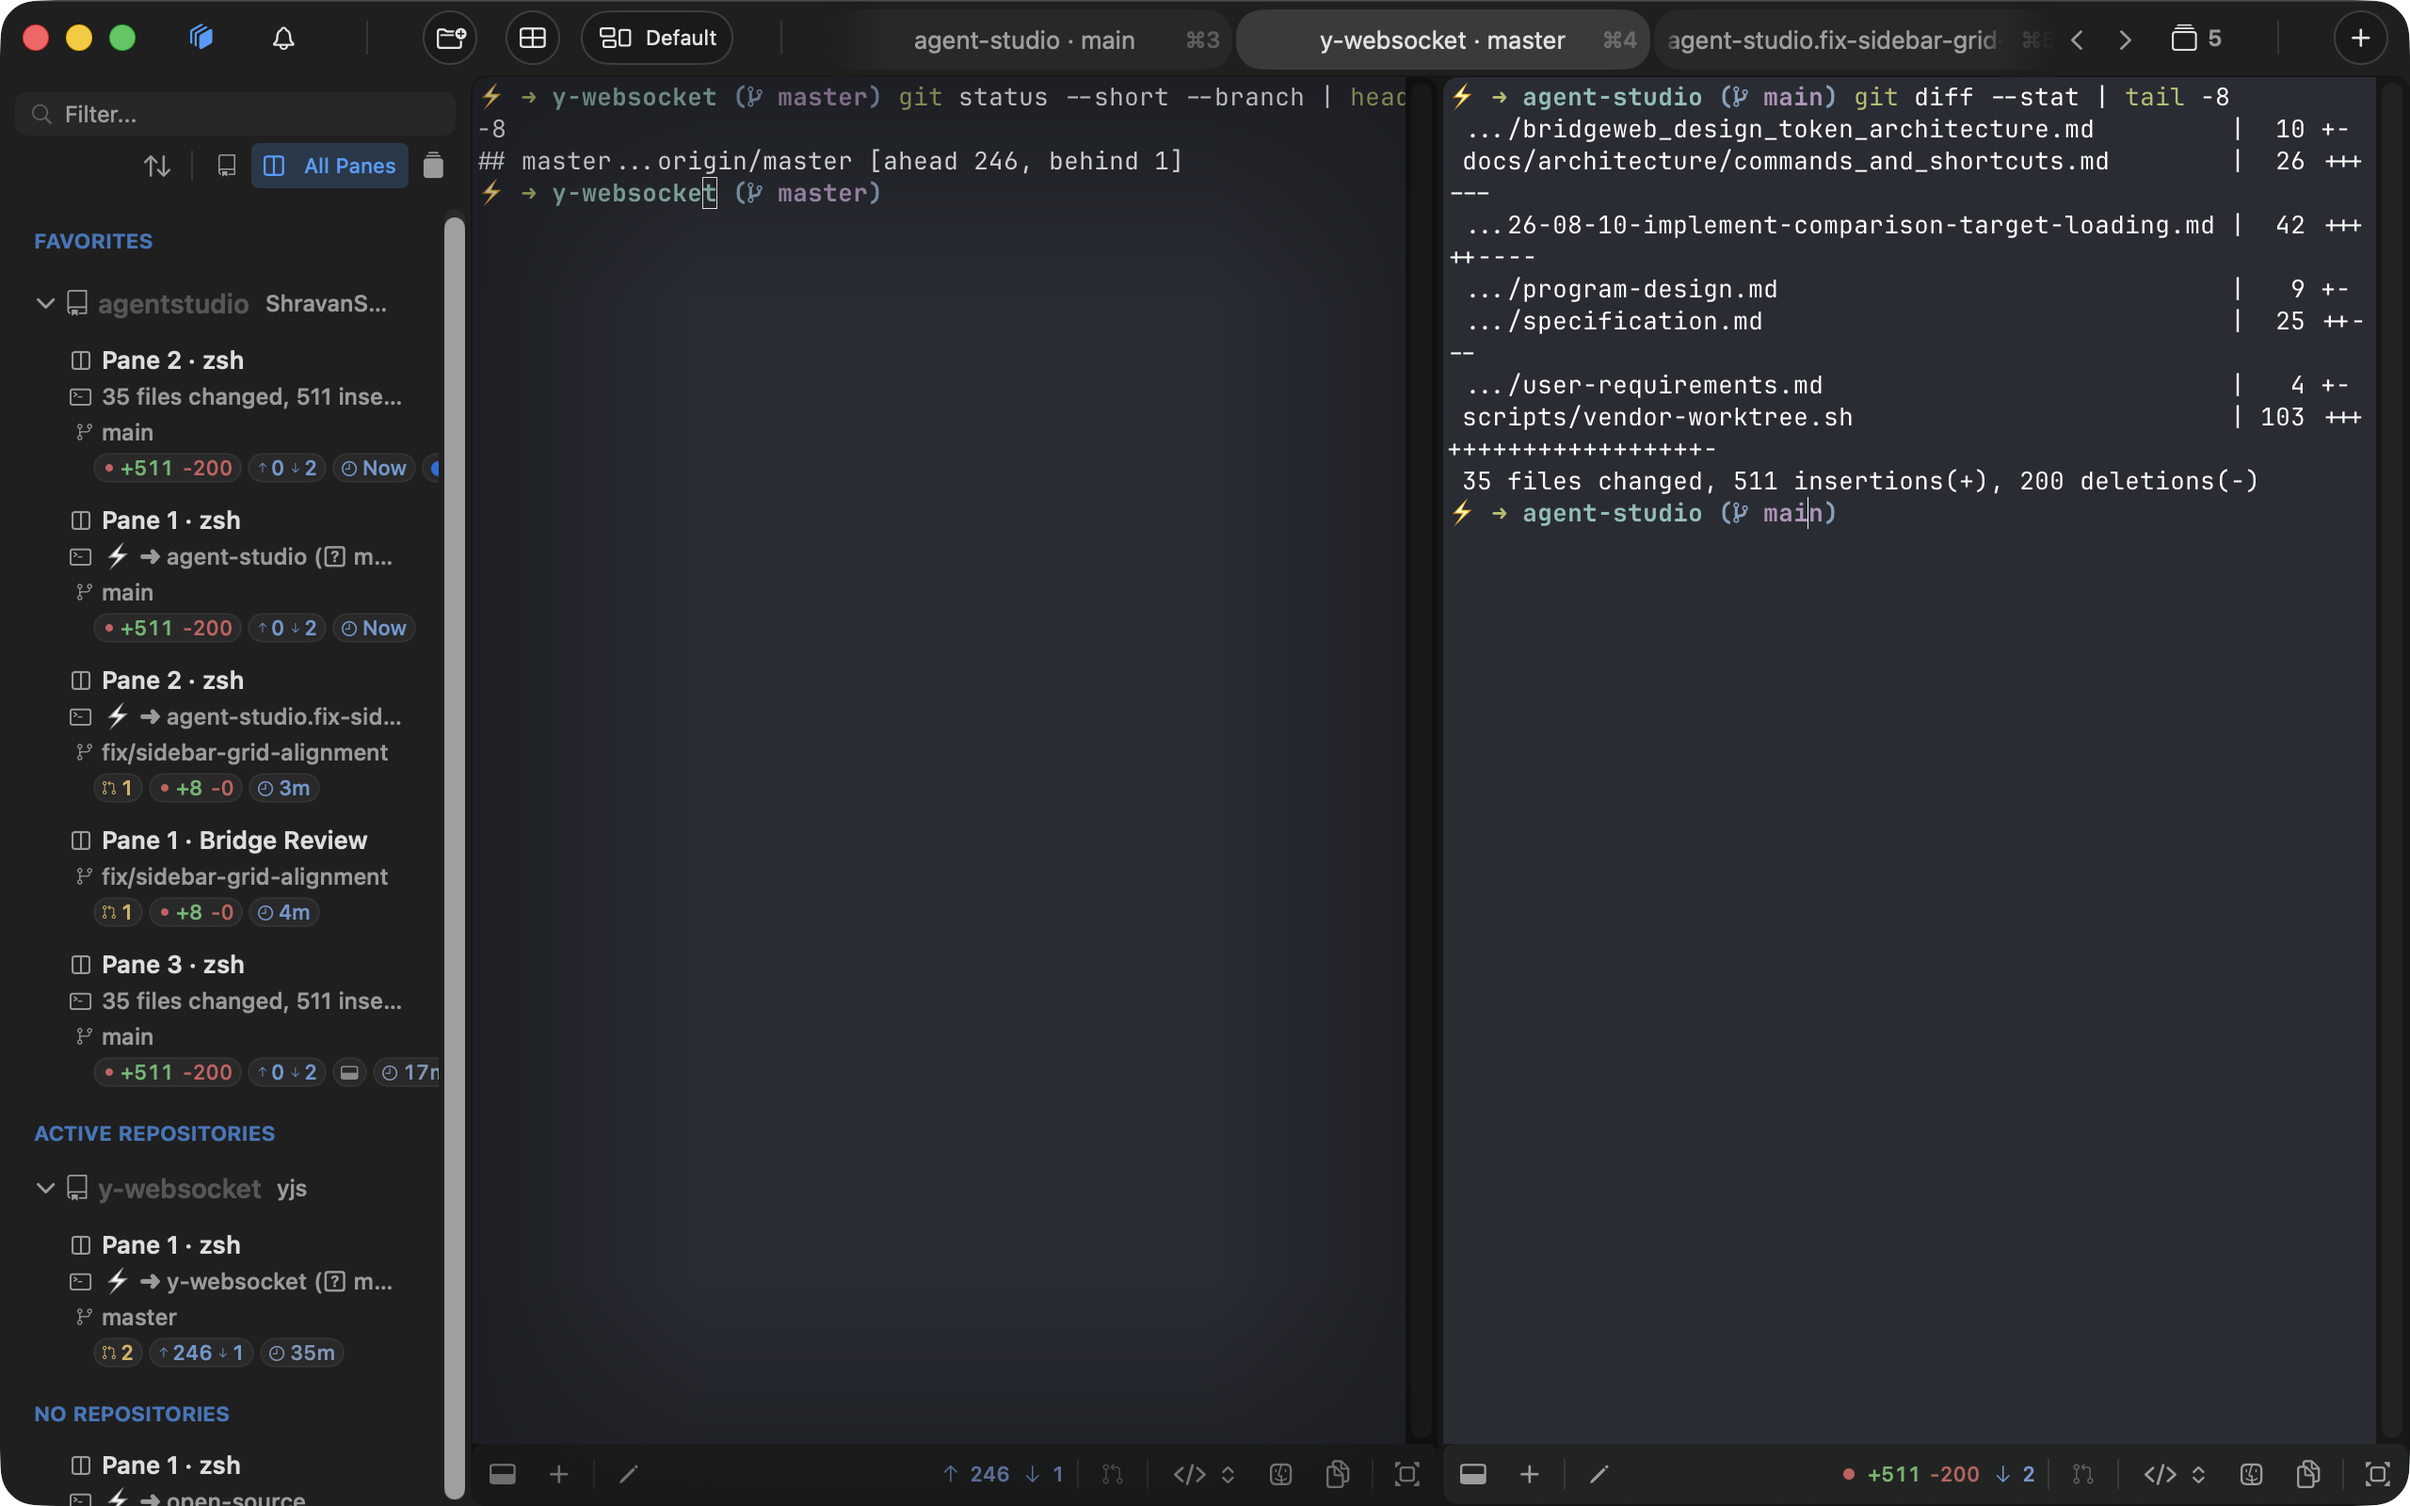
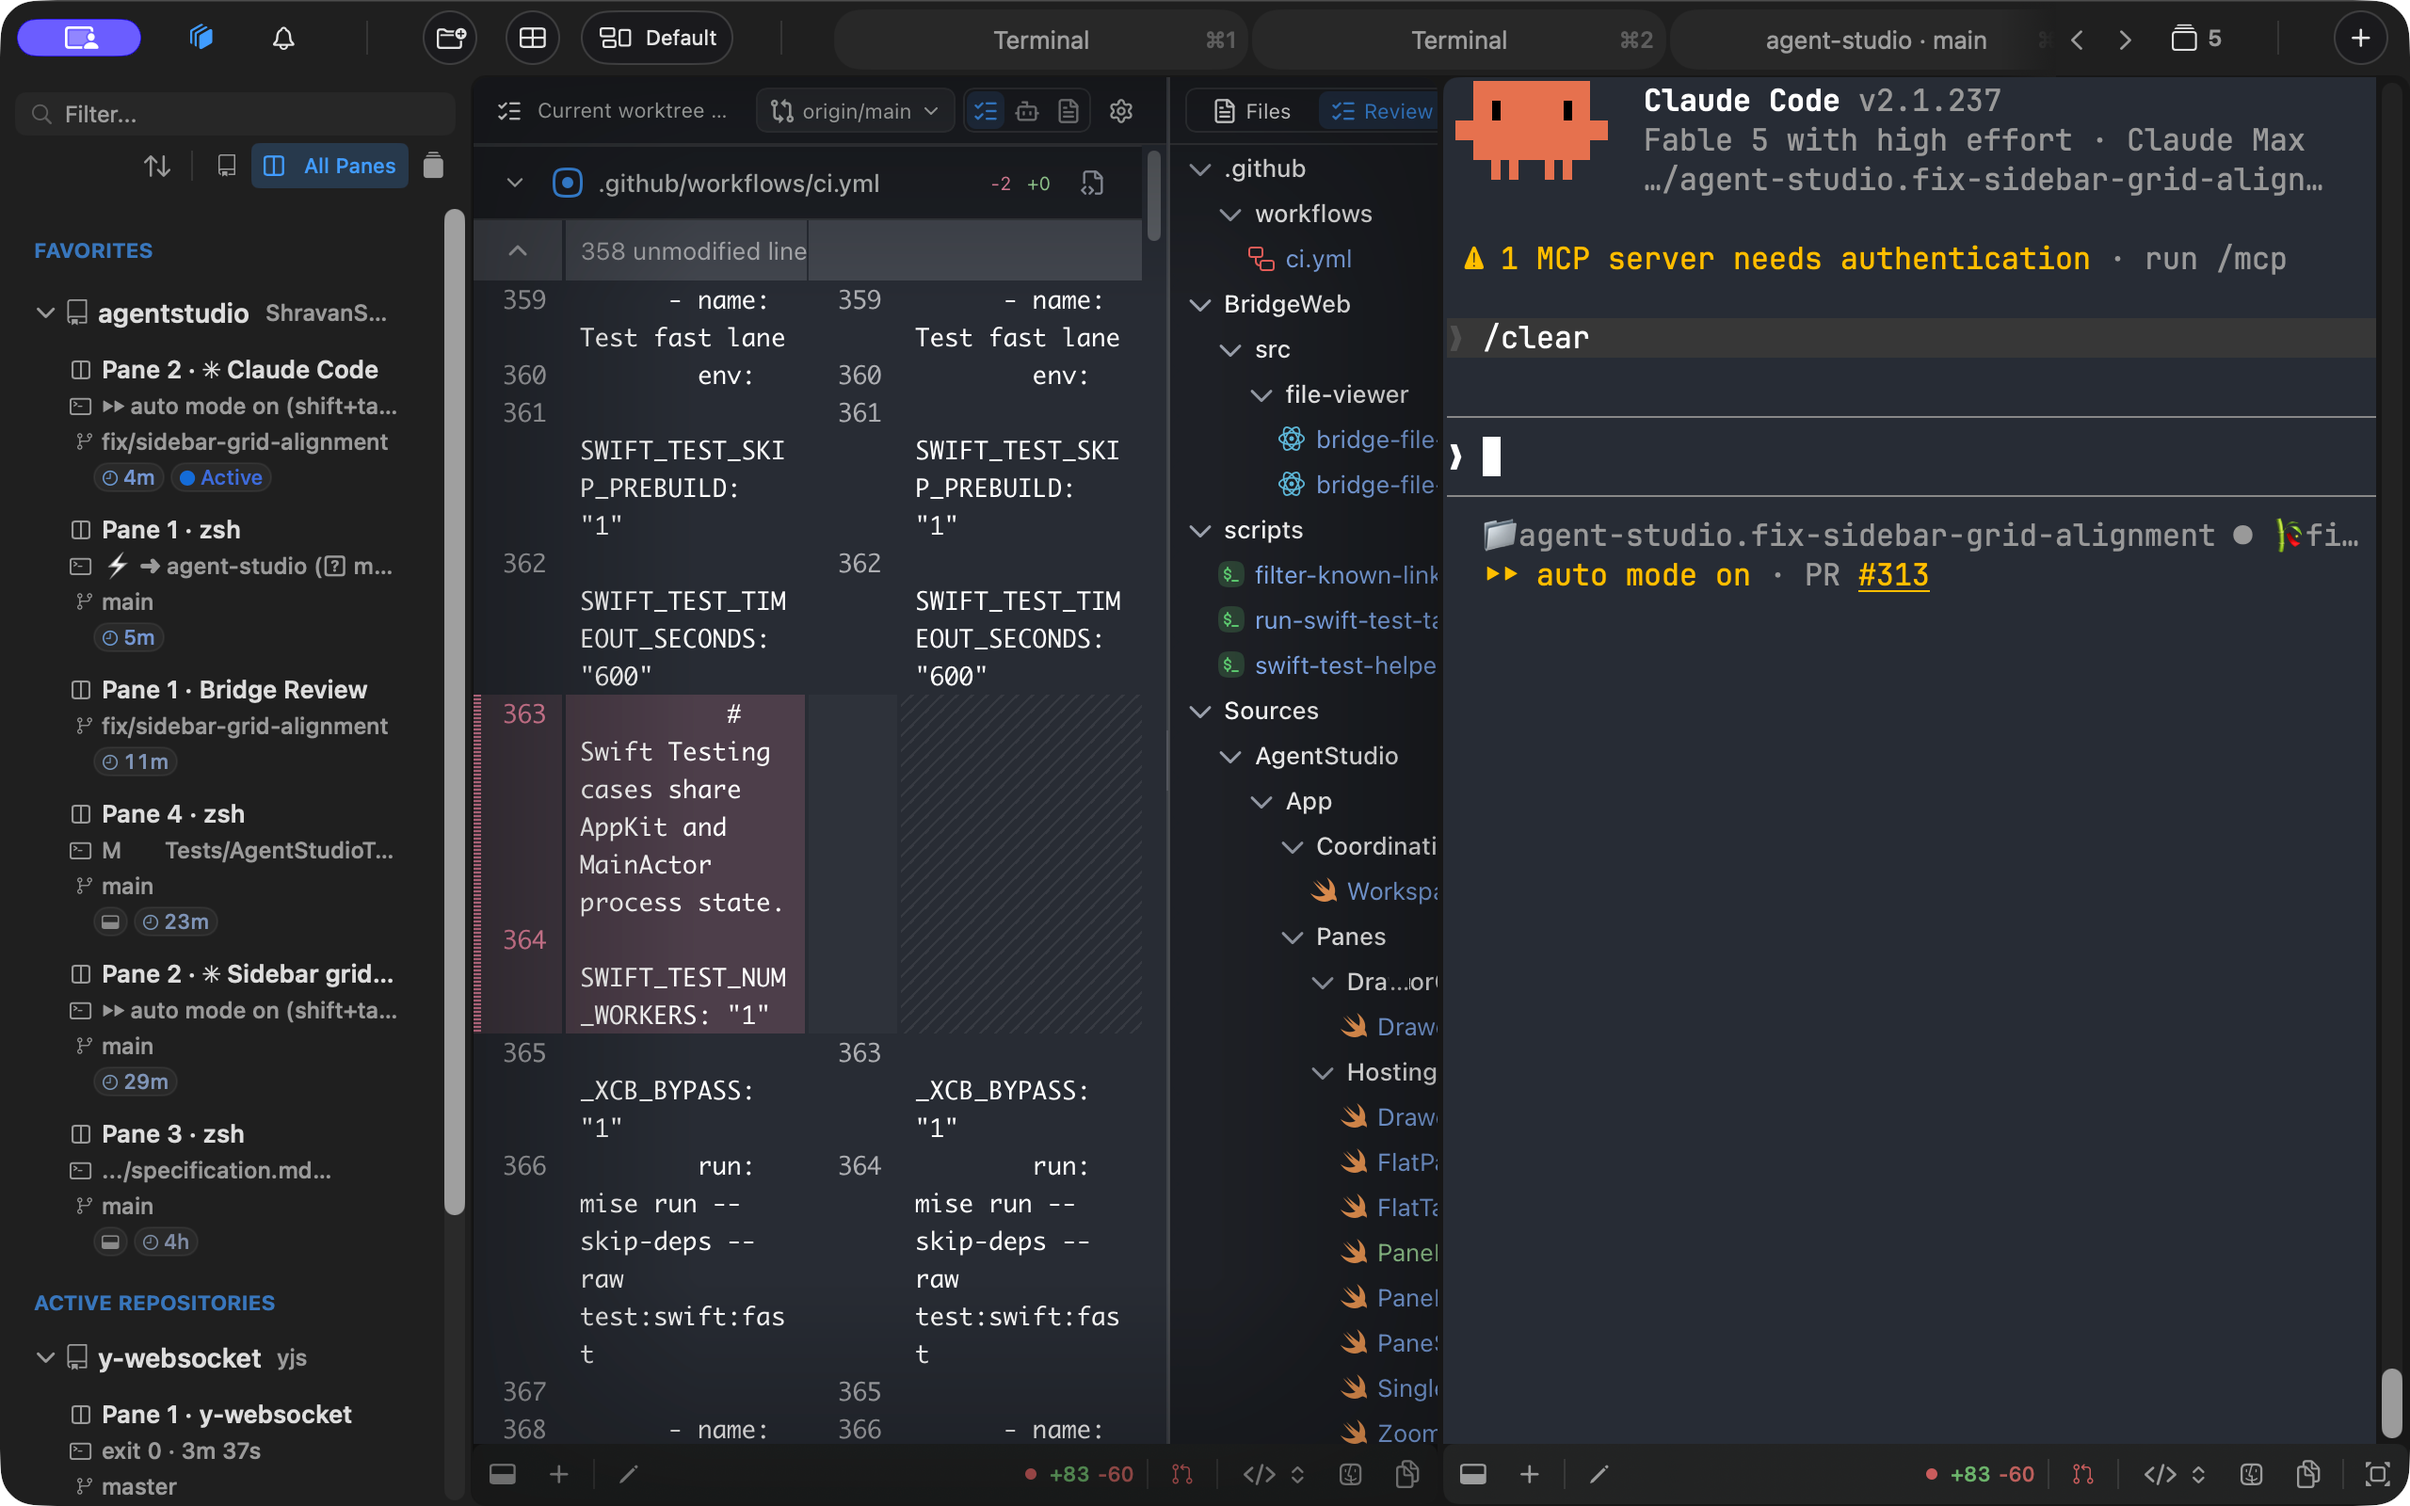
feat(web): replace product capture suite

diff --git a/web/src/content/website-capture-manifest.ts b/web/src/content/website-capture-manifest.ts
@@ -86,15 +86,15 @@ export const websiteCaptureSuite = {
       id: "pane-drawer",
       assetPath: "../assets/captures/pane-drawer.png",
       alternativeText:
-        "Agent Studio with a Git diff summary in a drawer attached to the right terminal pane.",
+        "Agent Studio with one populated Git file-status drawer attached to the active agent task, while Codex and Claude Code remain visible behind it.",
       processGeneration: "A",
[6 lines of base64/hex data omitted]
       focusRegion: null,
       focusRadiusPixels: null,
       focusRail: false,
-      settledAtSeconds: 1.72,
+      settledAtSeconds: 1,
     },
     {
       id: "quick-find",
@@ -114,43 +114,43 @@ export const websiteCaptureSuite = {
       id: "review",
       assetPath: "../assets/captures/review.png",
       alternativeText:
-        "Agent Studio with a read-only Swift diff and Changed Files tree beside the matching worktree terminal.",
+        "Agent Studio Review showing a CI workflow diff and Changed Files tree beside Claude Code in the matching worktree for pull request 313.",
       processGeneration: "A",
[6 lines of base64/hex data omitted]
       focusRegion: null,
       focusRadiusPixels: null,
       focusRail: false,
-      settledAtSeconds: 3.72,
+      settledAtSeconds: 1,
     },
     {
       id: "persistent-before",
       assetPath: "../assets/captures/persistent-before.png",
       alternativeText:
-        "Agent Studio before closing with five tabs, two visible terminal panes, drawer and Review entries, and the All Panes sidebar.",
+        "Agent Studio before closing with five tabs, All Panes, a CI workflow diff in Review, and Claude Code in the matching worktree for pull request 313.",
       processGeneration: "A",
[6 lines of base64/hex data omitted]
       focusRegion: null,
       focusRadiusPixels: null,
       focusRail: false,
-      settledAtSeconds: 4.72,
+      settledAtSeconds: 1,
     },
     {
       id: "persistent-restored",
       assetPath: "../assets/captures/persistent-restored.png",
       alternativeText:
-        "Agent Studio after reopening with five restored tabs, the same terminal panes, drawer and Review entries, terminal output, and sidebar grouping.",
+        "Agent Studio after reopening with the same five tabs, All Panes grouping, CI workflow diff, Claude Code worktree, pull request, and terminal session.",
       processGeneration: "B",
[6 lines of base64/hex data omitted]
       focusRegion: null,
       focusRadiusPixels: null,
       focusRail: false,
-      settledAtSeconds: 5.72,
+      settledAtSeconds: 1,
     },
   ],
 } as const satisfies WebsiteCaptureSuite;

diff --git a/web/src/marketing-copy.ts b/web/src/marketing-copy.ts
@@ -28,7 +28,8 @@ export const marketingCopy = {
       label: "Pane drawer",
       description:
         "Open a build log, git status, documentation, or a browser beside the agent that prompted it.",
-      imageDescription: "A Git diff summary in a drawer attached to the right terminal pane.",
+      imageDescription:
+        "One populated Git file-status drawer attached to the active agent task, with Codex and Claude Code visible behind it.",
     },
     quickFind: {
       label: "Quick Find",
@@ -41,7 +42,7 @@ export const marketingCopy = {
       description:
         "Agent Studio presents every changed file as one continuous, read-only diff with file-tree navigation and syntax highlighting.",
       imageDescription:
-        "A read-only Swift diff and Changed Files tree beside the matching worktree terminal.",
+        "A CI workflow diff and Changed Files tree beside Claude Code in the matching worktree for pull request 313.",
     },
     persistence: {
       label: "Persistent terminal sessions",
@@ -50,9 +51,9 @@ export const marketingCopy = {
       beforeLabel: "Before close",
       restoredLabel: "Restored",
       beforeImageDescription:
-        "Five tabs, two visible terminal panes, drawer and Review entries, and the All Panes sidebar before closing.",
+        "Five tabs, All Panes, a CI workflow diff in Review, and Claude Code in the matching worktree before closing.",
       restoredImageDescription:
-        "Five restored tabs, the same terminal panes, drawer and Review entries, terminal output, and sidebar grouping after reopening.",
+        "The same five tabs, All Panes grouping, CI workflow diff, Claude Code worktree, pull request, and terminal session after reopening.",
     },
   },
   installation: {

diff --git a/web/src/styles/global.css b/web/src/styles/global.css
@@ -533,6 +533,11 @@ a:focus-visible {
     overflow-x: auto;
     border-right: 0;
     border-bottom: 1px solid var(--line-strong);
+    scrollbar-width: none;
+  }
+
+  .product-plate__selectors::-webkit-scrollbar {
+    display: none;
   }
 
   .product-plate__selector {

diff --git a/docs/wip/2026-08-18-marketing-site-visual-copy-remediation.md b/docs/wip/2026-08-18-marketing-site-visual-copy-remediation.md
@@ -53,24 +53,24 @@ historical execution, not current acceptance. The current files show generic
 shells, large empty regions, no recognizable coding-agent sessions, weak or
 contaminated corner treatment, and an invalid half-size persistence layout.
 
-- [ ] Apply the source-pixel, crop, fit, readability, campaign-meaning, and
+- [x] Apply the source-pixel, crop, fit, readability, campaign-meaning, and
       two-plane approval gates from the mandatory verification SOP.
-- [ ] Produce one clean Parallel work calibration frame with real Claude Code
+- [x] Produce one clean Parallel work calibration frame with real Claude Code
       and Codex sessions before recapturing the other states.
 - [ ] Resolve the exact meaning of `Agy`; do not substitute `aider` silently.
-- [ ] Replace Pane drawer with a useful populated drawer attached to one named
+- [x] Replace Pane drawer with a useful populated drawer attached to one named
       agent task.
-- [ ] Replace Quick Find with a native, populated sheet over the same credible
+- [x] Replace Quick Find with a native, populated sheet over the same credible
       named-agent workspace.
-- [ ] Replace Review with a named agent beside a readable changed-files tree
+- [x] Replace Review with a named agent beside a readable changed-files tree
       and populated diff.
-- [ ] Replace both persistence sources from one matched named-agent restart
+- [x] Replace both persistence sources from one matched named-agent restart
       sequence.
-- [ ] Replace the persistence two-column layout with one full-scale frame at a
+- [x] Replace the persistence two-column layout with one full-scale frame at a
       time and an accessible Before/Restored control.
 - [ ] Inspect all source corners at 100 percent and all rendered states in local
       development, local production, and the exact Cloudflare deployment.
-- [ ] Create current desktop, phone, source, and magnified-corner contact sheets.
+- [x] Create current desktop, phone, source, and magnified-corner contact sheets.
 - [ ] Keep release status `NOT VERIFIED` until every source and rendered state
       passes.
 
@@ -89,18 +89,29 @@ Current recovery evidence:
   real `$ agent` pane scope over the same Codex and Claude Code workspace. The
   full-window region capture preserves the native sheet and background pixels,
   uses the matching window alpha boundary, and has no white corner wedges.
-- Pane drawer rehearsal is rejected. Two drawer children competed for focus;
-  one left too much empty space and the other became a dense file list. No
-  drawer candidate entered the website.
-- `pnpm --dir web run audit:captures` is the executable transition gate. It
-  currently passes the new Parallel work and Quick Find sources and rejects
-  Pane drawer, Review, and both persistence sources for non-canonical profile
-  or corner-alpha failures. The command remains outside the regular `check`
-  chain until all six captures pass, then it becomes a required check step.
+- The first Pane drawer rehearsal was rejected because two drawer children
+  competed for focus. The accepted replacement closes the redundant child and
+  shows one populated Git file-status drawer attached to the active task, with
+  the Codex and Claude Code work visible behind it.
+- Review shows the real CI workflow diff and Changed Files tree beside Claude
+  Code in the same `fix/sidebar-grid-alignment` worktree with PR #313 visible.
+- `pnpm --dir web run audit:captures` now passes all six sources and is part of
+  the regular `check` chain. It decodes every PNG, requires the canonical sRGB
+  chunk, rejects embedded non-canonical ICC profiles, and asserts alpha zero at
+  all four native-window corners.
 - The persistence website component now shows one complete full-width frame at
-  a time through an accessible Before/Restored control. Unit, type, lint,
-  formatting, capture-hash, and six browser interaction tests pass. The two
-  underlying persistence images remain rejected and must be recaptured.
+  a time through an accessible Before/Restored control. The matched clean
+  sequence used PID 23948 before close and PID 31000 after relaunch with the
+  same isolated data root. The same five tabs, All Panes grouping, Review file,
+  Claude Code worktree, PR #313, and terminal session returned.
+- Local production proof lives under
+  `/private/tmp/agentstudio-website-verification/working-tree/`. All five states
+  were clicked at 1600x1000 and 390x844. Single-image panels measured
+  1012x632.5 CSS pixels with no unused panel area. Persistence measured
+  1012x680.5 with one 1012x632.5 visible image plus the 48px state control.
+  Site-origin console warnings and errors were empty. Contact sheets cover all
+  desktop states, phone states, six full-resolution sources, and all four
+  magnified corners of every source.
 
 - [x] Make the clickable explainer the first product proof and remove the
   standalone hero screenshot.
